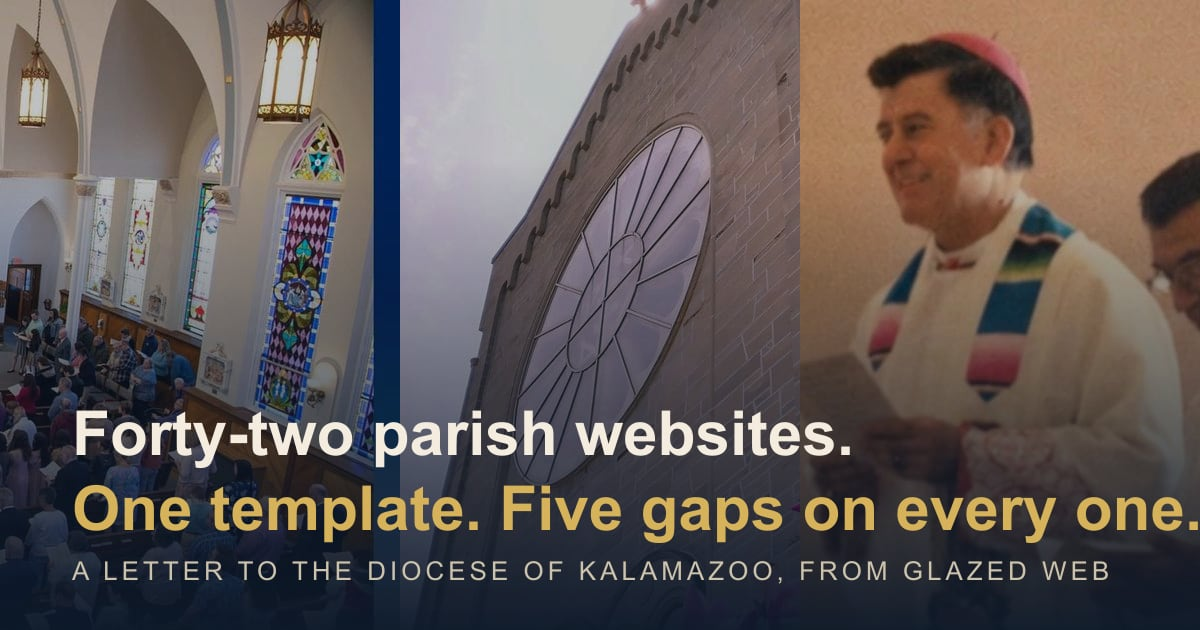
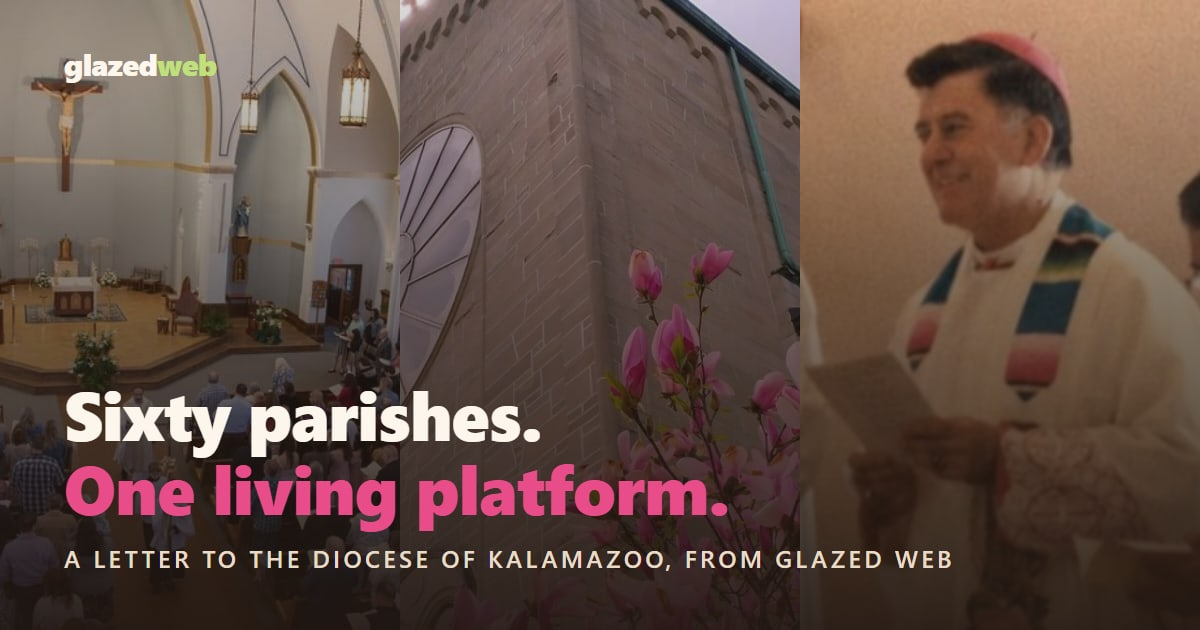
Link cards for both letters from the letters' own headlines (tools/og-card.mjs); the Lansing letter gets its og:image

diff --git a/public/pitch/lansing/index.html b/public/pitch/lansing/index.html
@@ -10,7 +10,12 @@
 <meta property="og:url" content="https://lansing.glazedweb.com/">
 <meta property="og:title" content="Seventy-three parishes. One living platform. Connected to each other, and to the diocese.">
 <meta property="og:description" content="A letter to the Diocese of Lansing, with a Mass finder for all 73 parishes running now, and every claim linked to the page that proves it.">
-<meta name="twitter:card" content="summary">
+<meta property="og:image" content="https://lansing.glazedweb.com/pitch/lansing/og.jpg">
+<meta property="og:image:width" content="1200">
+<meta property="og:image:height" content="630">
+<meta property="og:image:alt" content="Seventy-three parishes. One living platform. A letter to the Diocese of Lansing, from Glazed Web.">
+<meta name="twitter:card" content="summary_large_image">
+<meta name="twitter:image" content="https://lansing.glazedweb.com/pitch/lansing/og.jpg">
 <meta name="twitter:title" content="Seventy-three parishes. One living platform. Connected to each other, and to the diocese.">
 <meta name="twitter:description" content="A letter to the Diocese of Lansing, with a Mass finder for all 73 parishes running now.">
 <meta name="theme-color" content="#FDF6EC">
